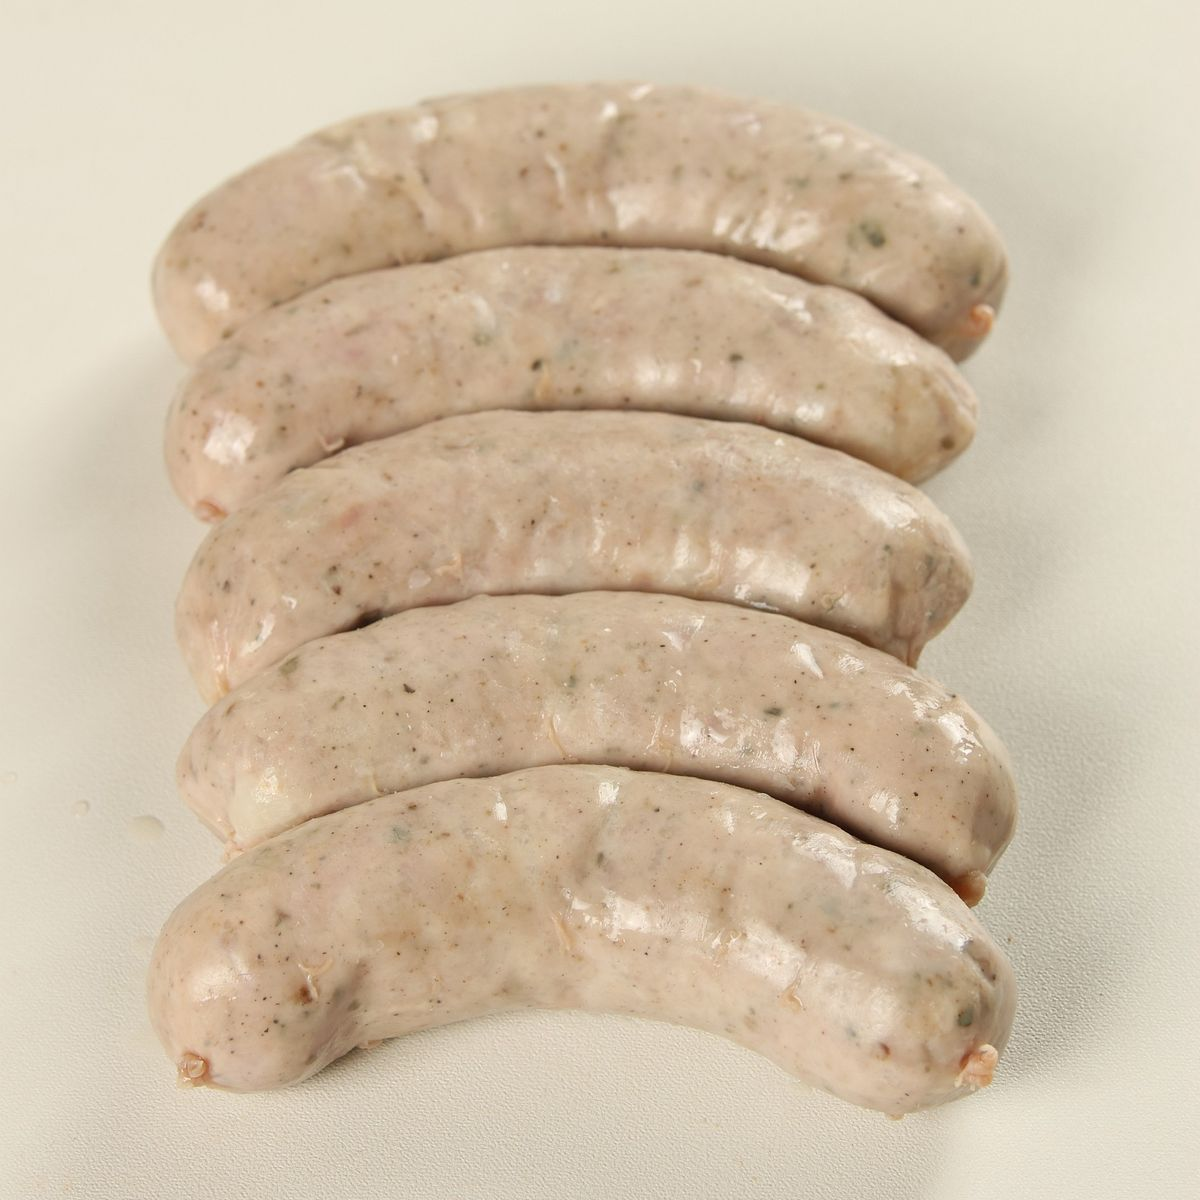
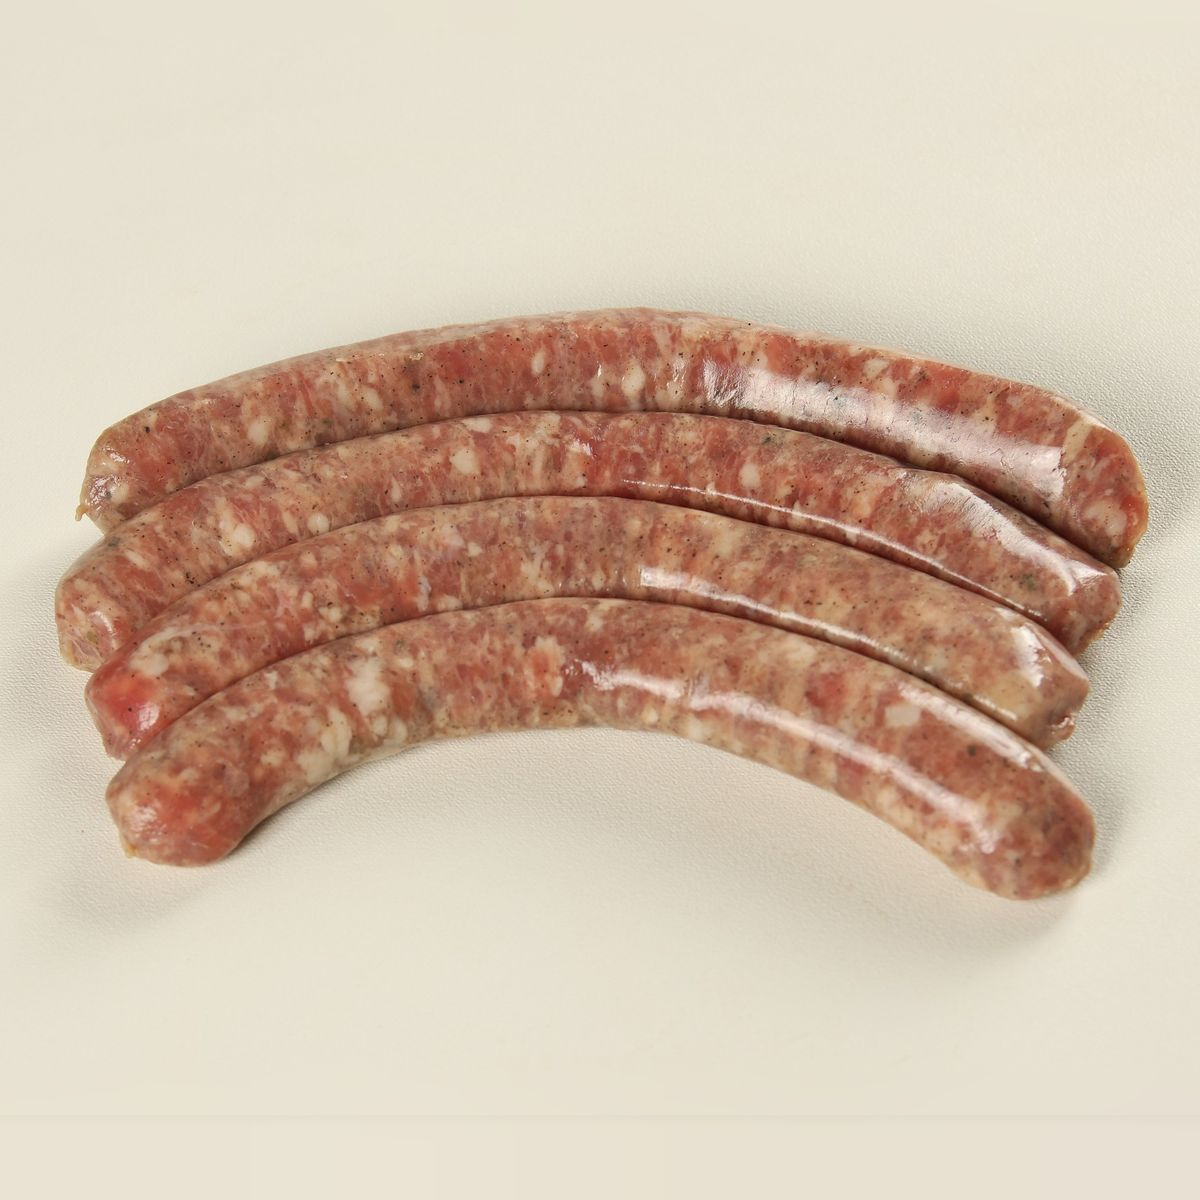
Friss kolbászok azonosítása javítva (bajor, gesztelyi páros), FOTOK.md frissítve
Claude-Session: https://claude.ai/code/session_01CF3hzgkMvHH33w1A8bMXUf

diff --git a/assets/js/data.js b/assets/js/data.js
@@ -173,7 +173,7 @@ BG.whiteImg = ['abalt-szalonna','ajandekdoboz-10','ajandekdoboz-kicsi','ajandekd
 
 /* Saját termékfotók – Kálmán Attila, 2026-11-17 (assets/img/foto/termek/, 1200×1200).
    Érték = képek száma: <id>.jpg a fő kép, <id>-2.jpg, <id>-3.jpg a galéria. Ahol nincs új fotó, marad a régi kép. */
-BG.photos = { 'abalt-szalonna': 2, 'angol-szalonna': 2, 'bbq-oldalas': 2, 'chilis-parizsi': 2, 'chilis-rilette': 2, 'comb': 2, 'csaszarhus': 2, 'csipos-paprikas-szalami': 2, 'csipos-snack-kolbasz': 3, 'csontos-karaj': 2, 'csulok': 2, 'csulok-csont-nelkul': 2, 'csuloksajt': 2, 'dagado': 2, 'daralthus': 3, 'debreceni-paros': 1, 'dobozos-kenomajas': 2, 'fokhagymas-rilette': 2, 'formazott-nyers-szalonna': 2, 'fustolt-csemege-kolbasz': 2, 'fustolt-csemege-szalonna': 2, 'fustolt-csipos-kolbasz': 2, 'fustolt-oldalas': 2, 'fustolt-parizsi': 3, 'fustolt-sonka': 2, 'fustolt-virsli': 2, 'grillkolbasz-bajor': 2, 'grillkolbasz-magyaros': 2, 'hagyomany-izei': 3, 'hamburgerhus': 2, 'hurka': 3, 'husos-csont': 2, 'karaj-csont-nelkul': 2, 'kocsonya-csomag': 3, 'kolozsvari-szalonna': 2, 'korom': 2, 'lapocka': 2, 'mangalica-izelito': 3, 'mangalica-maj': 2, 'mangalica-orokseg': 3, 'miskolci-kolbasz': 2, 'oldalas': 2, 'paprikas-szalami': 2, 'parasztmajas': 2, 'parizsi': 1, 'rakott-fej': 2, 'sos-szalonna': 2, 'sutokolbasz': 2, 'szuz': 2, 't-bone': 2, 'tarja-csont-nelkul': 3, 'teliszalami': 2, 'teperto': 1, 'tepertokrem': 1, 'tepett-hus': 2, 'tomahawk': 3, 'tomlos-kenomajas': 2, 'virsli': 2, 'zsirnakvalo': 3};
+BG.photos = { 'abalt-szalonna': 2, 'angol-szalonna': 2, 'bbq-oldalas': 2, 'chilis-parizsi': 2, 'chilis-rilette': 2, 'comb': 2, 'csaszarhus': 2, 'csipos-paprikas-szalami': 2, 'csipos-snack-kolbasz': 3, 'csontos-karaj': 2, 'csulok': 2, 'csulok-csont-nelkul': 2, 'csuloksajt': 2, 'dagado': 2, 'daralthus': 3, 'debreceni-paros': 2, 'dobozos-kenomajas': 2, 'fokhagymas-rilette': 2, 'formazott-nyers-szalonna': 2, 'fustolt-csemege-kolbasz': 2, 'fustolt-csemege-szalonna': 2, 'fustolt-csipos-kolbasz': 2, 'fustolt-oldalas': 2, 'fustolt-parizsi': 3, 'fustolt-sonka': 2, 'fustolt-virsli': 2, 'gesztelyi-paros': 2, 'grillkolbasz-bajor': 2, 'grillkolbasz-magyaros': 2, 'hagyomany-izei': 3, 'hamburgerhus': 2, 'hurka': 3, 'husos-csont': 2, 'karaj-csont-nelkul': 2, 'kocsonya-csomag': 3, 'kolozsvari-szalonna': 2, 'korom': 2, 'lapocka': 2, 'mangalica-izelito': 3, 'mangalica-maj': 2, 'mangalica-orokseg': 3, 'miskolci-kolbasz': 2, 'oldalas': 2, 'paprikas-szalami': 2, 'parasztmajas': 2, 'parizsi': 1, 'rakott-fej': 2, 'sos-szalonna': 2, 'sutokolbasz': 2, 'szuz': 2, 't-bone': 2, 'tarja-csont-nelkul': 3, 'teliszalami': 2, 'teperto': 1, 'tepertokrem': 1, 'tepett-hus': 2, 'tomahawk': 3, 'tomlos-kenomajas': 2, 'virsli': 2, 'zsirnakvalo': 3 };
 
 BG.featured = ['fustolt-csemege-kolbasz', 'kolozsvari-szalonna', 'csontos-tarja', 'grillkolbasz-magyaros', 'paprikas-szalami', 'tepertokrem', 'szuz', 'tomahawk'];
 

diff --git a/FOTOK.md b/FOTOK.md
@@ -49,9 +49,10 @@ Forrás: a fotós 2026-11-17-i levele (Pixieset galéria + Google Drive). A vál
 | Kolbászok, szalámik | Paprikás szalámi (`paprikas-szalami`) | 9716, 9721 | krémszínű háttér |  |
 | Kolbászok, szalámik | Csípős paprikás szalámi (`csipos-paprikas-szalami`) | 9760, 9764 | krémszínű háttér | **megerősítendő** |
 | Kolbászok, szalámik | Téliszalámi (`teliszalami`) | 9722, 9725 | krémszínű háttér |  |
-| Kolbászok, szalámik | Grillkolbász (bajor jellegű) (`grillkolbasz-bajor`) | 9822, 9827 | krémszínű háttér |  |
-| Kolbászok, szalámik | Grillkolbász (magyaros) (`grillkolbasz-magyaros`) | 9813, 9815 | krémszínű háttér | **megerősítendő** |
-| Kolbászok, szalámik | Debreceni páros (`debreceni-paros`) | 9797 | krémszínű háttér | **megerősítendő** |
+| Kolbászok, szalámik | Grillkolbász (bajor jellegű) (`grillkolbasz-bajor`) | 9820, 9817 | krémszínű háttér |  |
+| Kolbászok, szalámik | Gesztelyi páros (`gesztelyi-paros`) | 9822, 9827 | krémszínű háttér |  |
+| Kolbászok, szalámik | Grillkolbász (magyaros) (`grillkolbasz-magyaros`) | 9813, 9817 | krémszínű háttér | **megerősítendő** |
+| Kolbászok, szalámik | Debreceni páros (`debreceni-paros`) | 9797, 9799 | krémszínű háttér | **megerősítendő** |
 | Felvágottak, kenhetők | Párizsi (`parizsi`) | 9613 | krémszínű háttér |  |
 | Felvágottak, kenhetők | Chilis párizsi (`chilis-parizsi`) | 9620, 9621 | krémszínű háttér |  |
 | Felvágottak, kenhetők | Füstölt párizsi (`fustolt-parizsi`) | 9601, 9610, 9600 | krémszínű háttér |  |
@@ -83,17 +84,27 @@ A fotókon nincs címke, a régi webshop képei és a vágás alapján azonosít
 - **Formázott nyers szalonna (9440–9448)** és **füstölt csemege szalonna (9688, 9713).**
 - **Abált szalonna (9777–9781):** paprikás bundájú darab.
 - **Csípős paprikás szalámi (9760–9768)** – a paprikás szalámi (9716–9721) mellett.
-- **Friss kolbászok:** grillkolbász magyaros = 9813, debreceni páros = 9797, sütőkolbász = 9793 (a hurkával fotózták együtt). A rózsaszín, nyers kolbász (9819–9821) és a halvány, címke nélküli páros (9690, 9691, 9738, 9739) nincs hozzárendelve – valószínűleg gesztelyi páros vagy grillkolbász.
+- **Friss kolbászok** (a régi webshop képeivel összevetve): grillkolbász bajor = a hosszú, halvány, borsos (9819–9821), gesztelyi páros = a vastag, fehér, zöldfűszeres (9822–9830), grillkolbász magyaros = a hosszú, piros (9813–9814), a kettő együtt: 9815–9817; debreceni páros = a rövid, narancssárga (9797–9799); sütőkolbász = a vastag, piros, ívelt (9793–9796), a hurkával együtt is fotózták.
 - **Csülöksajt (9643–9647):** fehér, darabos sajt narancs bélben; mellette a rakott fej (9648–9653) biztosnak látszik.
 
 ## Új fotó nélkül maradt (a régi kép él)
 
-Csontos tarja, Frédi szelet, Mangalica turista, Gesztelyi páros, Nyelves felvágott, Uzsonnasonka, Kalandor és Csibész uzsonnacsomag, Mangalicazsír (1 és 5 kg), a régi ajándékdobozok és -kosár, Bőségtál, ajándékkártyák.
+Az összes képet újra átnéztem (2026-11-17 este), ezekről nem találtam fotót:
+
+- **Csontos tarja:** a tarjáról egyetlen darab készült (9318–9339), csont nem látszik rajta – ez a „Tarja csont nélkül” képe.
+- **Frédi szelet:** a régi kép csontos combszelet, ilyen nincs az anyagban. A 9171–9192 sorozat egyetlen T-bone szelet két oldalról.
+- **Mangalica turista:** a 9760–9768 sorozat egyetlen szalámi (csípős paprikás), a csomagolt változat is ugyanaz.
+- **Nyelves felvágott, uzsonnasonka:** nincs rózsaszín, nyelvdarabos vagy sonkás felvágott a képeken.
+- **Mangalicazsír (1 és 5 kg):** önállóan nem fotózták, csak a fekete táskás ajándékcsomagban látszik egy „Sült mangalica zsír” doboz.
+- **Kalandor és Csibész uzsonnacsomag:** grafika, nem fotó.
+- **Régi ajándéktermékek** (Ajándékdoboz 10 féle, KICSI, NAGY, kosár), **Bőségtál, ajándékkártyák:** a fehér és a fa doboz fotói most az új karácsonyi csomagoknál vannak; bőségtál és kártya nincs az anyagban.
 
 ## Felhasználatlan, de jó anyag
 
 - Velő (9548–9556), háj (9557–9572), pofa (9521–9529), vékony hússzelet papíron (9530–9537): nincs ilyen termék a katalógusban.
-- Füstölt csülök (9782–9792), füstölt tarja szeletelve (9701–9703), szilvás májas (9746–9748): új termékként felvehetők.
+- Füstölt csülök (9782–9792), füstölt tarja szeletelve (9701–9703), szeletelt füstölt sonka csomagolva (9743–9745): új termékként vagy az ajándékcsomagok tartalmához felhasználhatók.
+- Aranyszínű bélben töltött rúd aszalt szilvával (9746–9748): nem tudtam azonosítani, nincs ilyen termék a katalógusban.
+- 9749–9752: kutyáról készült magánfotók, nem termékanyag.
 - Tepertőkrém-piramis karácsonyi dekorációval (9386–9401): ünnepi kampányképnek.
 
 ## Karácsonyi csomagok

diff --git a/README.md b/README.md
@@ -30,7 +30,7 @@ Kattintható bemutató webshop a bgmangalica.hu WooCommerce-átállásához, a S
 
 ## Termékfotók és kategóriaoldalak (2026-11-17)
 
-- **Saját fotók:** a 2026-11-17-i fotózás (Kálmán Attila) anyagából 59 termék kapott új fő képet, többségük 2–3 képes galériát is (`assets/img/foto/termek/`, `BG.photos` a `data.js`-ben). Hozzárendelés, bizonytalan azonosítások és kimaradt termékek: [FOTOK.md](FOTOK.md).
+- **Saját fotók:** a 2026-11-17-i fotózás (Kálmán Attila) anyagából 60 termék kapott új fő képet, többségük 2–3 képes galériát is (`assets/img/foto/termek/`, `BG.photos` a `data.js`-ben). Hozzárendelés, bizonytalan azonosítások és kimaradt termékek: [FOTOK.md](FOTOK.md).
 - **Képarány:** a termékkártya és a termékoldal 1:1 (a brief szerint), a termékoldalon bélyegképes galéria.
 - **Kategóriaoldalak:** fekvő kategóriakép, a bal harmad sötét és nyugodt a feliratnak, jobb alsó sarokban közeli részletkép (metszéslap, márványozottság, füstölt felület). Az „Összes termék” oldal is kapott fejlécképet. A főoldali kategóriacsempék ugyanezeket a képeket használják.
 - **Karácsonyi csomagok:** Mangalica Ízelítő, Hagyomány Ízei, Mangalica Örökség (Petra listája szerinti tartalom és ár), a főoldali ajándéksávban is.
